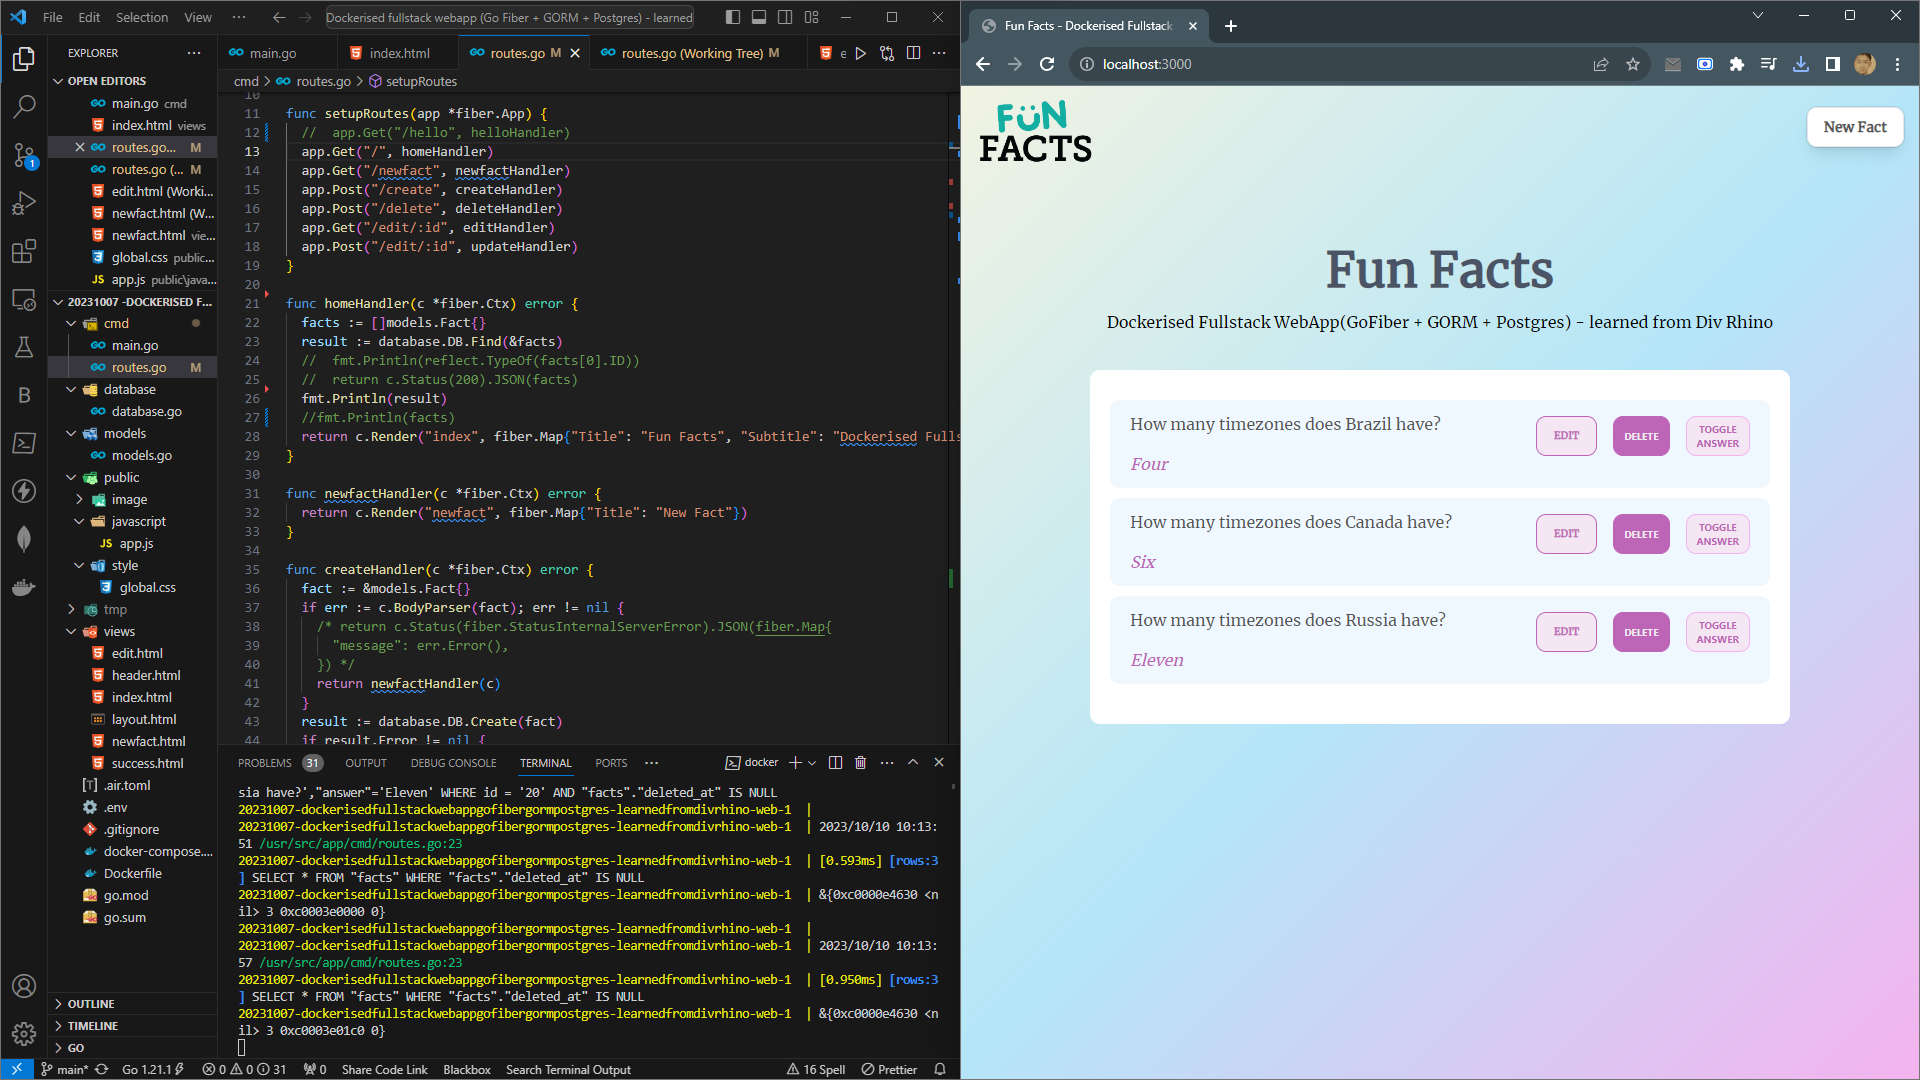
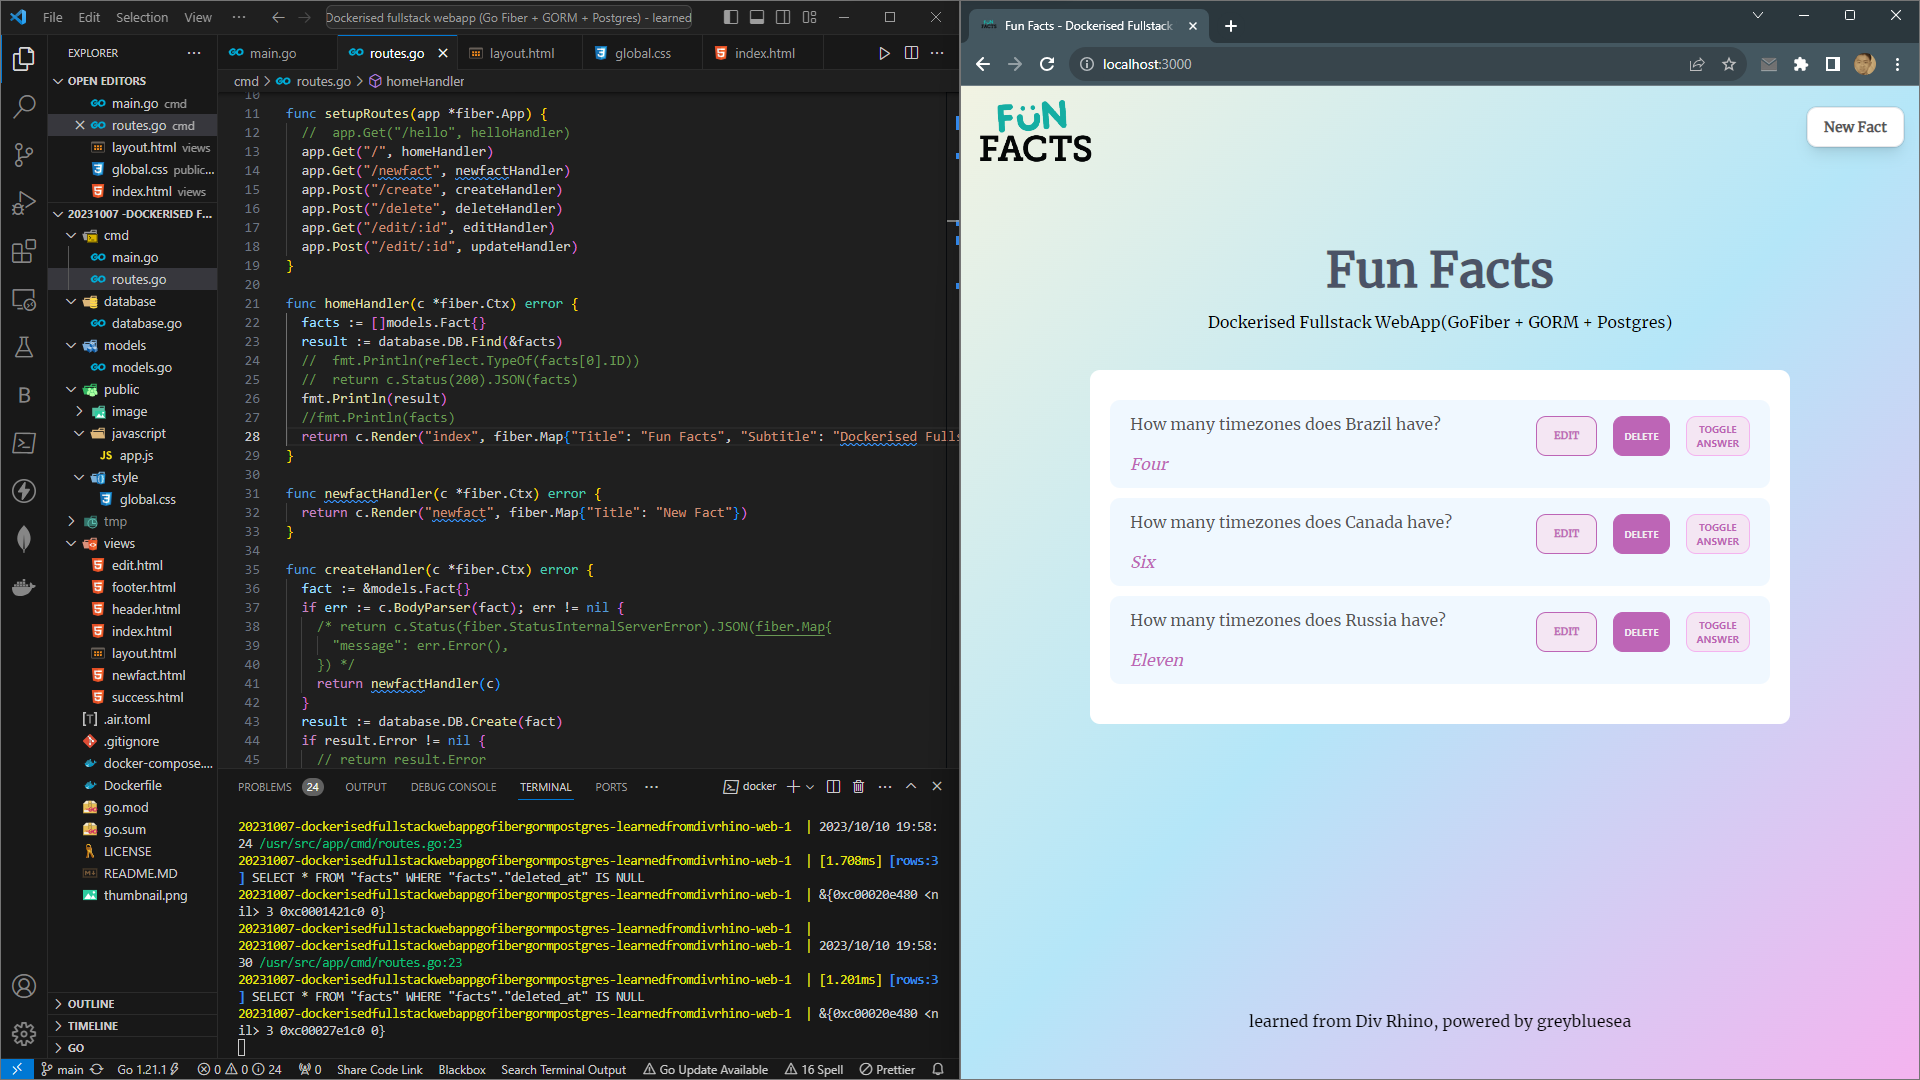
updated

diff --git a/public/style/global.css b/public/style/global.css
@@ -448,16 +448,9 @@ main {
 footer {
   position: fixed;
   bottom: 5dvh;
-  /* left: 0;
-  right: 0; */
   width: 100%;
-  /*  padding-left: auto;
-  padding-right: auto;
-  text-align: center; */
 }
 
 footer h4 {
   text-align: center;
-  /*   margin-left: auto;
-  margin-right: auto; */
 }

diff --git a/README.MD b/README.MD
@@ -1,3 +1,3 @@
 ## Dockerised Fullstack WebApp(GoFiber + GORM + Postgres) - learned from Div Rhino
 
-Youtube: [https://youtu.be/8oleu0i4Z8w](https://youtu.be/8oleu0i4Z8w)
+Youtube: [https://youtu.be/hTA3JdUF-xc](https://youtu.be/hTA3JdUF-xc)
